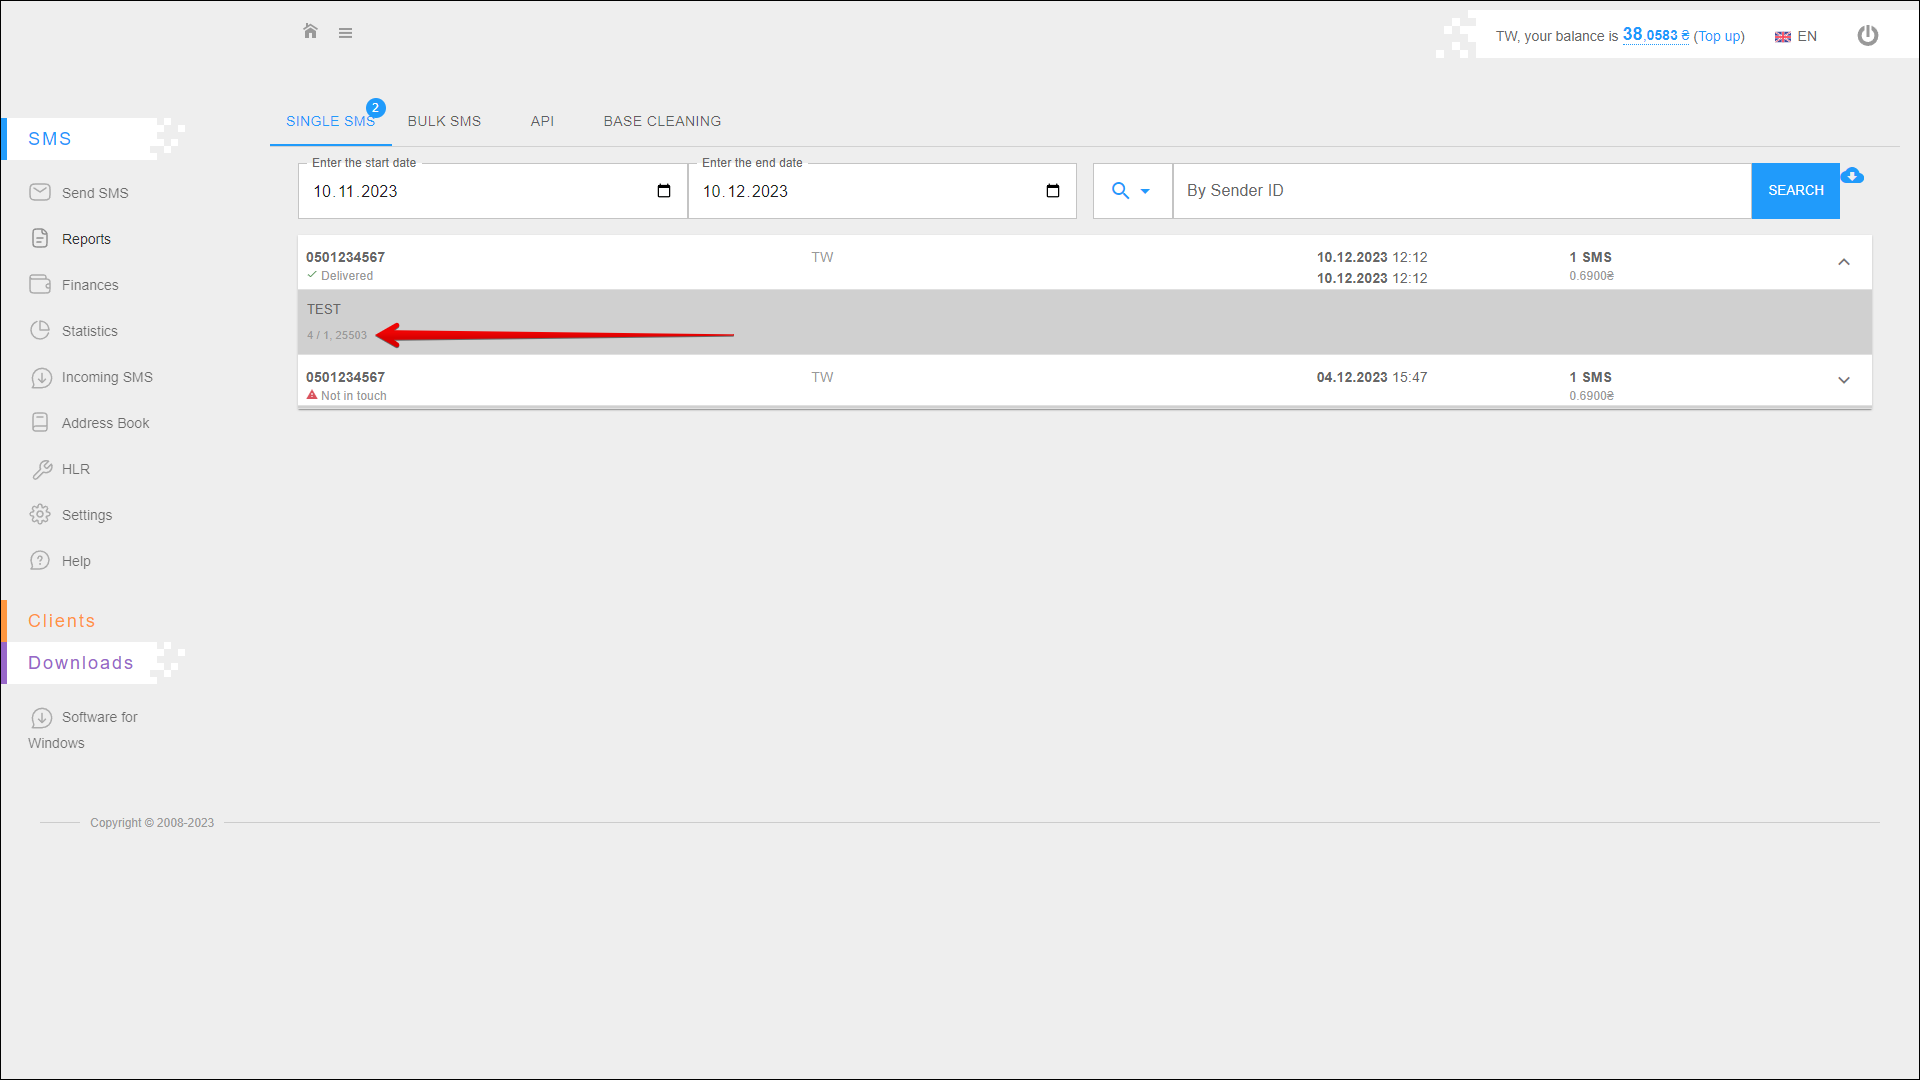
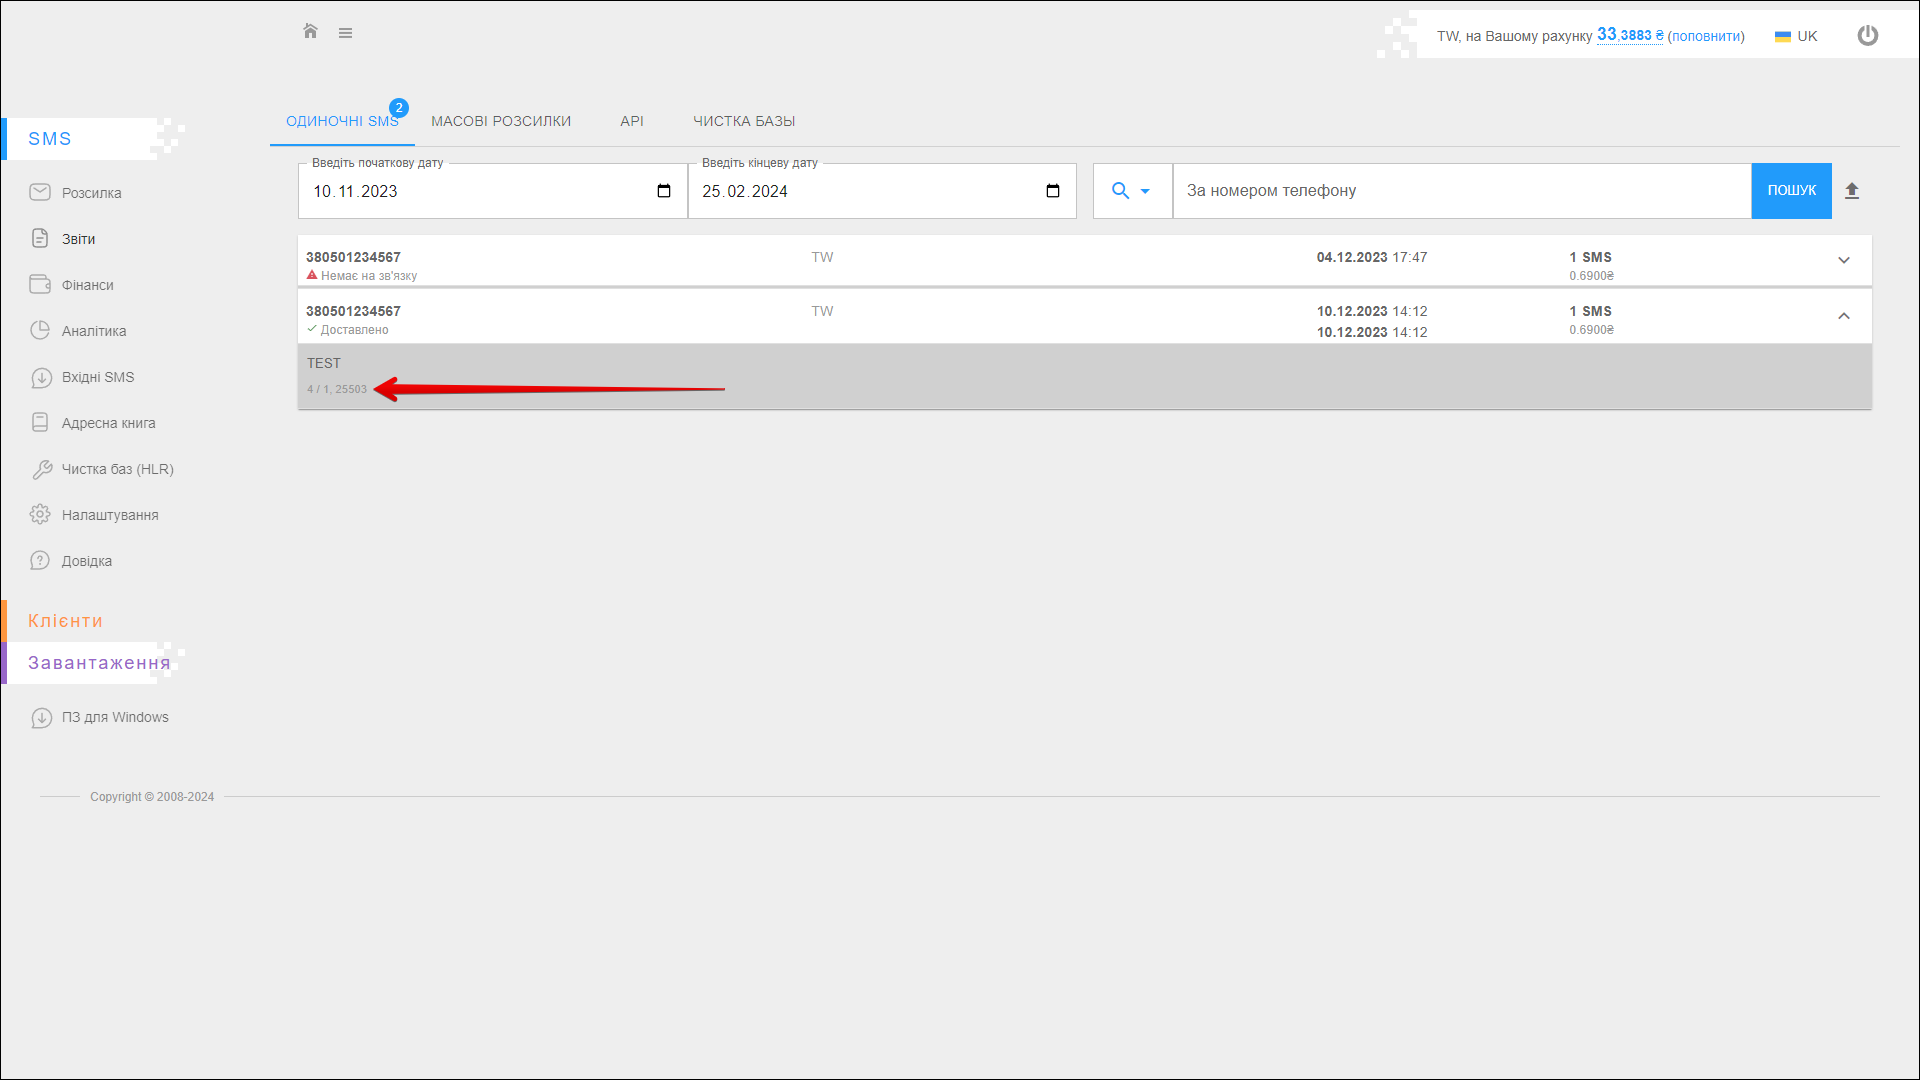
+ SMS-Звіти-Одиночні SMS

diff --git a/i18n/uk/docusaurus-plugin-content-docs/current/instruction/sms/reports/single_sms_reports.md b/i18n/uk/docusaurus-plugin-content-docs/current/instruction/sms/reports/single_sms_reports.md
@@ -1,5 +1,70 @@
 ---
 id: single_sms_reports
-title: Одиничні SMS
+title: Одиночні SMS
 slug: /single_sms_reports
 ---
+
+На цій вкладці ви можете переглянути звіти по одиночним sms за певний період, а також експортувати звіт у xlsx-файл.
+
+Щоб відкрити дану вкладку, виберіть **SMS** → **Звіти** у боковому меню та перейдіть на вкладку **ОДИНОЧНІ SMS**.
+
+![image1](/img/uk/sms_reports_single_sms/image1.png)
+
+## Вибір періоду
+
+Щоб вибрати **Період**, за який ви хочете відображати звіти, виконайте наведені нижче дії:
+
+|  №  | Дія |
+| :-: | --- |
+| 1 | Введіть **Початкову дату**. Ви можете ввести дату вручну або вибрати її в календарі, для цього натисніть на іконку **Календар** в правій частині поля |
+| 2 | Введіть **Кінцеву дату**. Ви можете ввести дату вручну або вибрати її в календарі, для цього натисніть на іконку **Календар** в правій частині поля |
+
+Після вибору дати сторінка оновиться, щоб відобразити звіти за вказаний період.
+
+![image2](/img/uk/sms_reports_single_sms/image2.png)
+
+## Пошук
+
+Ви також можете знайти конкретні звіти за **Номером телефону** або за **Іменем відправника**. Для пошуку звітів виконайте наведені нижче дії:
+
+|  №  | Дія |
+| :-: | --- |
+| 1 | Вкажіть параметр пошуку: <li>**За номером телефону**</li> <li>**За іменем відправника**</li> |
+| 2 | Введіть **Значення параметра** для пошуку звіту |
+
+Далі натисніть **ПОШУК**, сторінка оновиться і на ній відобразяться звіти за вказаними параметрами.
+
+![image3](/img/uk/sms_reports_single_sms/image3.png)
+
+## Експорт звіту
+
+Перед збереженням звіт необхідно згенерувати, для цього натисніть іконку кнопки **Експорт** праворуч від кнопки **ПОШУК**.
+
+![image4](/img/uk/sms_reports_single_sms/image4.png)
+
+Через деякий час звіт буде сформовано і його можна буде завантажити, натиснувши на іконку кнопки **ЗАВАНТАЖИТИ**.
+
+![image5](/img/uk/sms_reports_single_sms/image5.png)
+
+Звіт буде збережено на вашому пристрої у форматі **.xlsx**.
+
+## Список звітів
+
+Всі звіти за одиночними SMS знаходяться в таблиці на вкладці **ОДИНОЧНІ SMS**.
+
+![image6](/img/uk/sms_reports_single_sms/image6.png)
+
+|  №  | Опис |
+| :-: | ---- |
+| 1 | **Номер телефону отримувача** та **Статус SMS** |
+| 2 | **Ім'я відправника** |
+| 3 | Дата і час **Початку** та **Закінчення** розсилки |
+| 4 | **Кількість SMS** та їх **Загальна вартість** |
+
+Натисніть на **Звіт**, щоб переглянути текст повідомлення.
+
+![image7](/img/uk/sms_reports_single_sms/image7.png)
+
+Також під текстом повідомлення зазначено **Кількість символів у повідомленні**, **Кількість частин повідомлення** та **Ідентифікатор повідомлення (MSGID)**.
+
+![image8](/img/uk/sms_reports_single_sms/image8.png)
